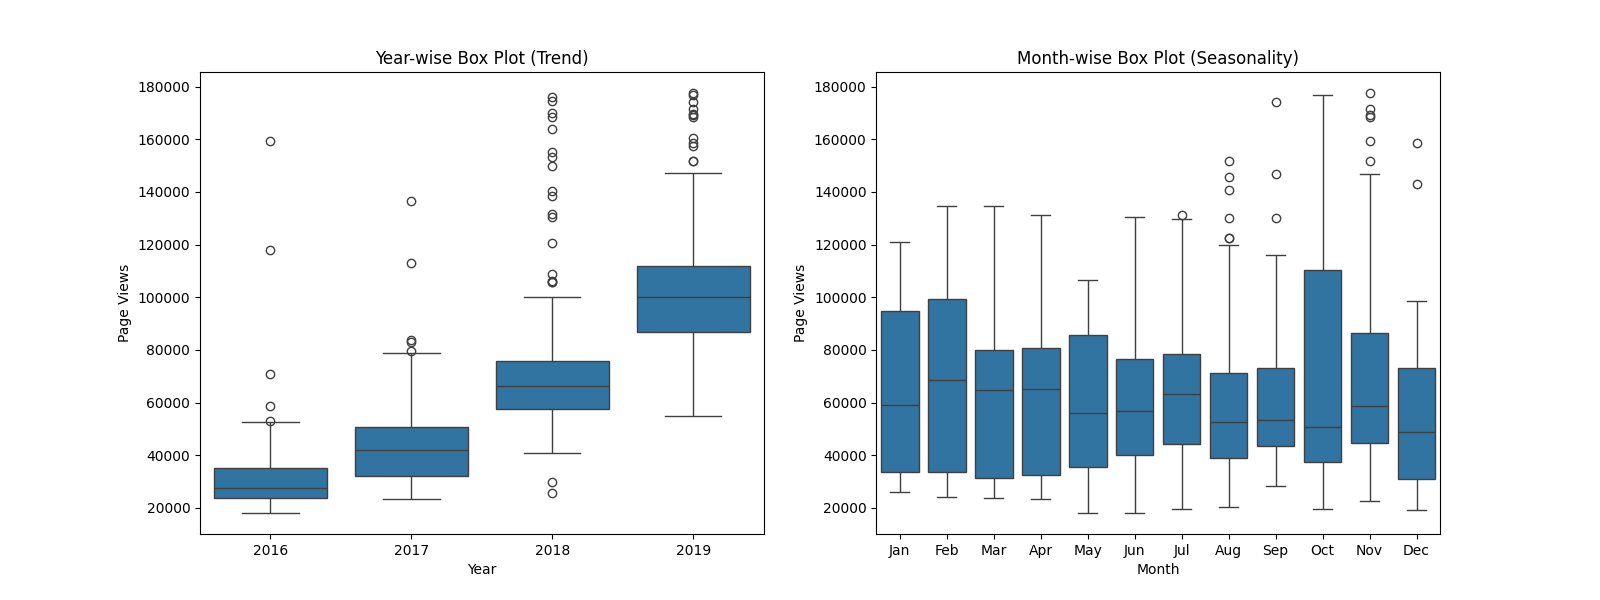
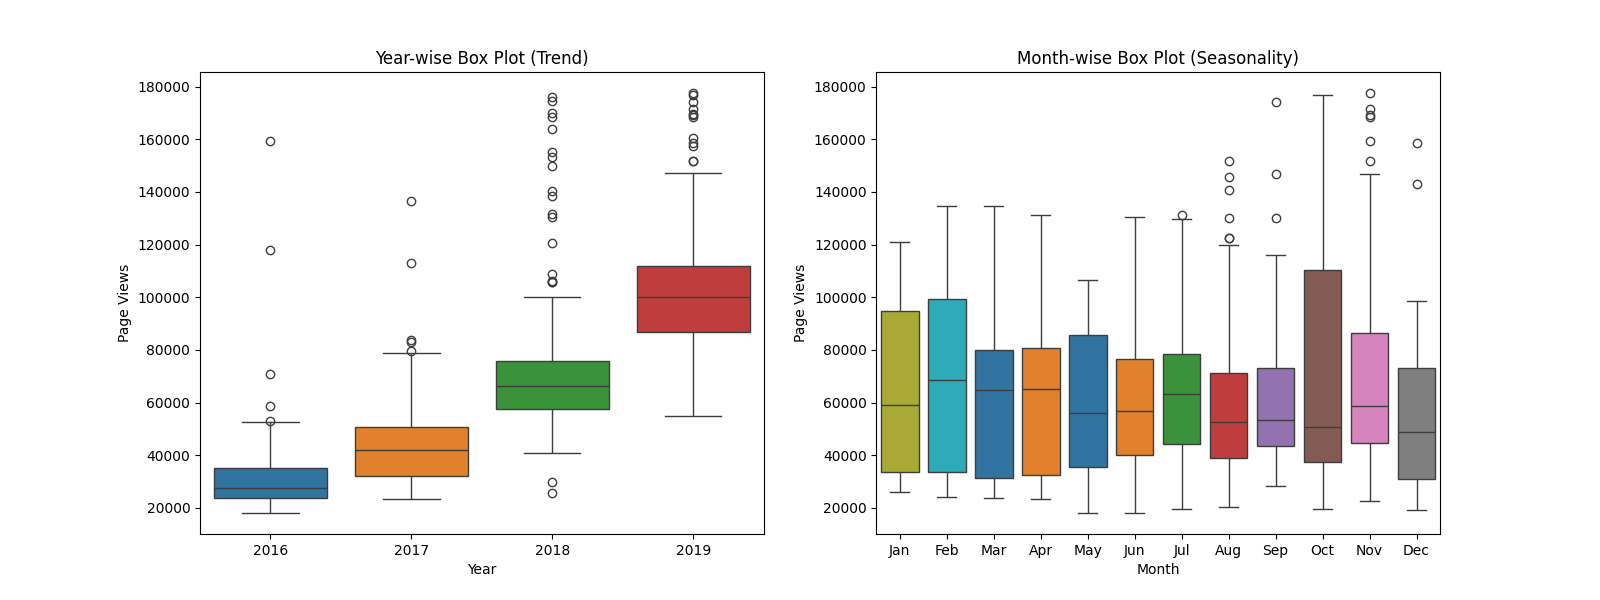
Changes to account for deprecation warnings

diff --git a/time_series_visualizer.py b/time_series_visualizer.py
@@ -64,8 +64,11 @@ def draw_box_plot():
 
     plot_objects = plt.subplots(nrows=1, ncols=2, figsize=(16, 6))
     fig, ((ax1, ax2)) = plot_objects
-    sns.boxplot(data=df_box, x='year', y='value', ax=ax1, orientation='vertical')
-    sns.boxplot(data=df_box, x='month', y='value', ax=ax2, order=months_order, orientation='vertical')
+    sns.boxplot(data=df_box, x='year', y='value', ax=ax1, 
+                orientation='vertical', palette="tab10", hue='year', legend=False)
+    sns.boxplot(data=df_box, x='month', y='value', ax=ax2, 
+                order=months_order, orientation='vertical', 
+                palette="tab10", hue='month', legend=False)
     ax1.set_title('Year-wise Box Plot (Trend)')
     ax1.set_xlabel('Year')
     ax1.set_ylabel('Page Views')
